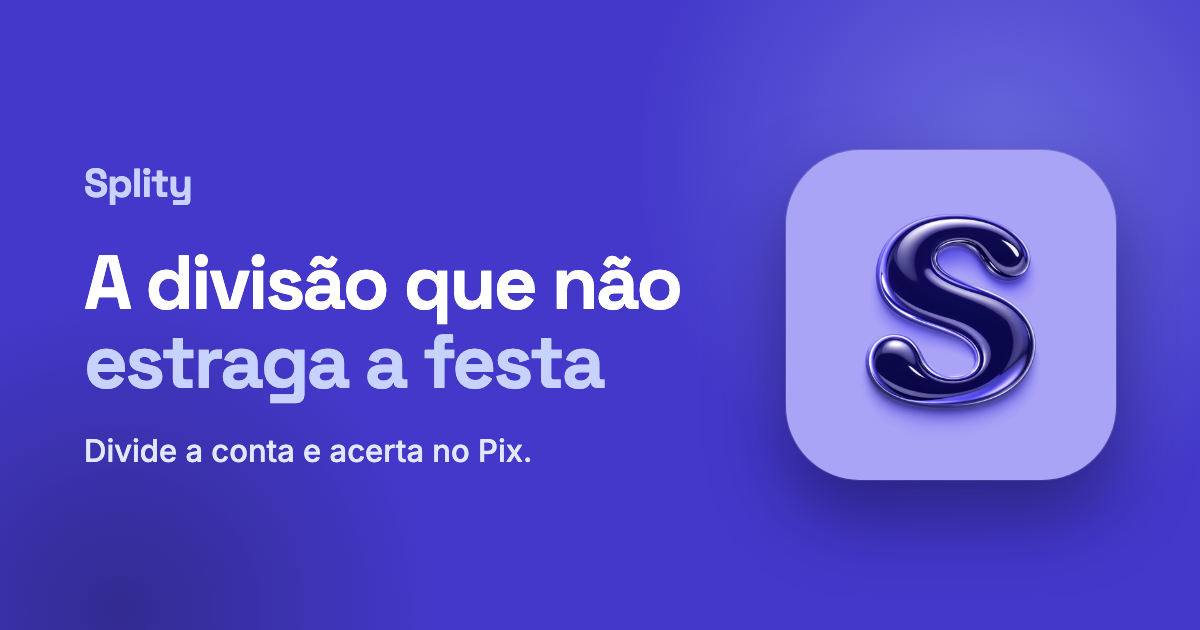
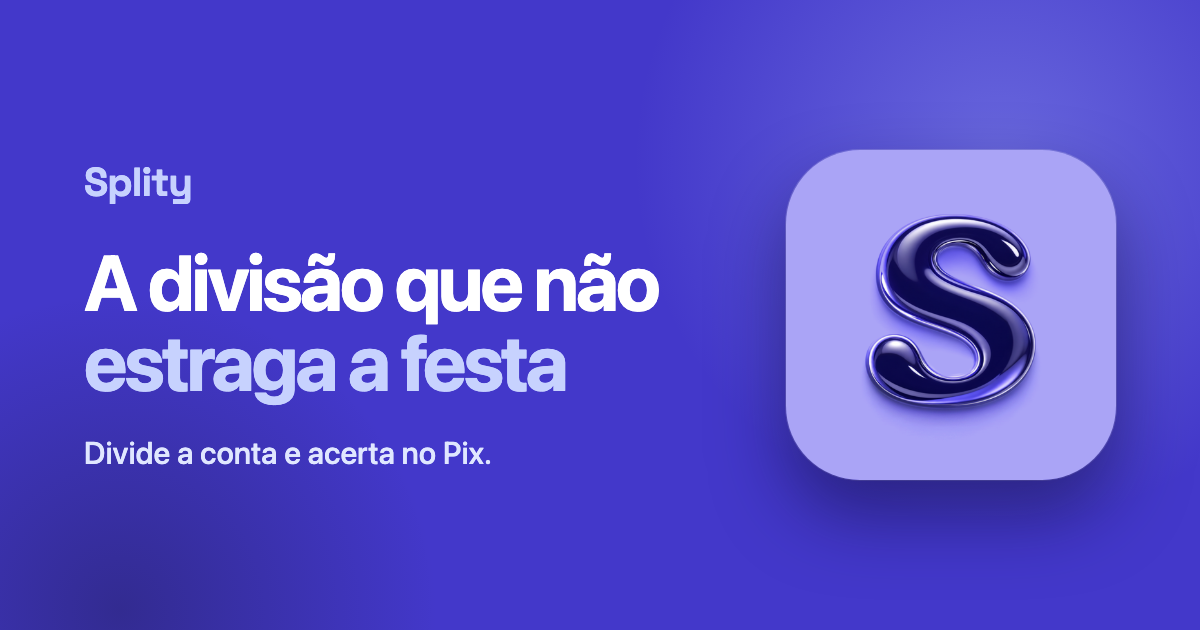
design: tipografia da landing no estilo Apple (Space Grotesk só no nome)
- Nome "Splity" (topo e rodapé) e as telas do celular seguem em Space Grotesk
- Resto do site passa pra fonte do sistema da Apple (SF Pro no iPhone/Mac;
  onde não existe, Inter) com algarismos tabulares nos valores em reais
- Escala maior e apertada nos títulos (topo até 80px, seções até 68px,
  tracking -0,035em) e mais espaço entre seções
- Imagem de pré-visualização regenerada com a mesma regra de fontes
- R$ e valor nunca quebram em linhas separadas nos cartões

Changed region(s): [[0.0617, 0.3921, 0.5858, 0.6635], [0.0617, 0.6937, 0.4317, 0.754], [0.0617, 0.2714, 0.1542, 0.3317]]

diff --git a/index.html b/index.html
@@ -41,11 +41,16 @@
       --bg-gray: #f8fafc;
       --border: #e2e8f0;
       --radius-lg: 20px;
+      /* Space Grotesk só no nome "Splity"; o resto do site usa a fonte do sistema da
+         Apple (SF Pro no iPhone/Mac) e, onde ela não existe, a Inter (parecida). */
+      --font-brand: 'Space Grotesk', sans-serif;
+      --font-ui: -apple-system, BlinkMacSystemFont, 'SF Pro Display', 'SF Pro Text', 'Inter', 'Helvetica Neue', Arial, sans-serif;
     }
 
     html { scroll-behavior: smooth; }
+    .sit-row b, .sit-sum b, .dm-transfer b, .dm-bal b, .dm-money input, .plan-price .amount { font-variant-numeric: tabular-nums; }
     body {
-      font-family: 'Inter', sans-serif;
+      font-family: var(--font-ui);
       color: var(--text);
       background: var(--bg);
       -webkit-font-smoothing: antialiased;
@@ -84,7 +89,7 @@
       border-bottom: 1px solid #e2e8f0;
     }
     .nav-inner { max-width: 1120px; margin: 0 auto; padding: 14px 24px; display: flex; align-items: center; justify-content: space-between; }
-    .nav-logo { font-family: 'Space Grotesk', sans-serif; font-size: 30px; font-weight: 700; color: var(--brand); text-decoration: none; letter-spacing: -0.4px; }
+    .nav-logo { font-family: var(--font-brand); font-size: 30px; font-weight: 700; color: var(--brand); text-decoration: none; letter-spacing: -0.4px; }
     .nav-links { display: flex; align-items: center; gap: 22px; }
     .nav-links a { text-decoration: none; transition: all 0.15s cubic-bezier(0.4,0,0.2,1); }
     .nav-enter { font-size: 14px; font-weight: 600; color: var(--text); }
@@ -101,10 +106,10 @@
       overflow: hidden;
     }
     .hero-inner { max-width: 1120px; margin: 0 auto; display: flex; align-items: center; gap: 32px; flex-wrap: wrap; }
-    .hero-text { flex: 1 1 50%; max-width: 460px; min-width: 260px; }
-    .hero-text h1 { font-family: 'Space Grotesk', sans-serif; font-size: clamp(38px,5vw,58px); font-weight: 700; line-height: 1.08; letter-spacing: -1px; margin-bottom: 22px; }
+    .hero-text { flex: 1 1 56%; max-width: 620px; min-width: 260px; }
+    .hero-text h1 { font-family: var(--font-ui); font-size: clamp(42px,6.2vw,80px); font-weight: 700; line-height: 1.03; letter-spacing: -0.035em; margin-bottom: 26px; }
     .hero-text h1 em { color: var(--brand); font-style: normal; }
-    .hero-text p { font-size: clamp(16px,1.6vw,19px); color: var(--text-muted); max-width: 480px; margin-bottom: 30px; }
+    .hero-text p { font-size: clamp(17px,1.7vw,21px); line-height: 1.45; letter-spacing: -0.011em; color: var(--text-muted); max-width: 520px; margin-bottom: 34px; }
     .hero-cta {
       display: inline-flex; align-items: center; gap: 10px;
       background: var(--brand); color: #fff; font-size: 16px; font-weight: 600;
@@ -117,7 +122,7 @@
     .hero-app { display: inline-block; margin-top: 14px; font-size: 14px; font-weight: 600; color: var(--brand); text-decoration: none; border-bottom: 1.5px solid rgba(67,56,202,0.3); padding-bottom: 1px; }
     .hero-app:hover { border-bottom-color: var(--brand); }
 
-    .hero-mockup-col { flex: 1 1 50%; min-width: 280px; display: flex; justify-content: flex-end; padding-right: 64px; box-sizing: border-box; }
+    .hero-mockup-col { flex: 1 1 36%; min-width: 280px; display: flex; justify-content: flex-end; padding-right: 64px; box-sizing: border-box; }
     .phone-outer { width: 289px; height: 629px; flex: none; }
     .phone-scale { width: 402px; height: 874px; transform: scale(0.7188); transform-origin: top left; filter: drop-shadow(0 30px 60px rgba(15,23,42,0.25)); }
     .ios-device { width: 402px; height: 874px; border-radius: 48px; background: #000; padding: 12px; box-sizing: border-box; position: relative; }
@@ -165,8 +170,8 @@
     .mock-back { width: 38px; height: 38px; border-radius: 50%; background: #fff; box-shadow: 0 1px 3px rgba(20,18,50,0.08); display: flex; align-items: center; justify-content: center; flex-shrink: 0; }
 
     .mock-greet-name { font-size: 14px; color: #7a7894; }
-    .mock-greet-user { font-family: 'Space Grotesk', sans-serif; font-size: 26px; font-weight: 700; line-height: 1.1; }
-    .mock-avatar { width: 44px; height: 44px; border-radius: 50%; background: var(--brand); color: #fff; display: flex; align-items: center; justify-content: center; font-family: 'Space Grotesk', sans-serif; font-weight: 700; font-size: 17px; box-shadow: 0 4px 12px rgba(67,56,202,0.25); }
+    .mock-greet-user { font-family: var(--font-brand); font-size: 26px; font-weight: 700; line-height: 1.1; }
+    .mock-avatar { width: 44px; height: 44px; border-radius: 50%; background: var(--brand); color: #fff; display: flex; align-items: center; justify-content: center; font-family: var(--font-brand); font-weight: 700; font-size: 17px; box-shadow: 0 4px 12px rgba(67,56,202,0.25); }
     .mock-card { background: #fff; border-radius: 20px; padding: 14px 16px; display: flex; align-items: center; gap: 14px; box-shadow: 0 1px 3px rgba(20,18,50,0.05); transition: outline 0.3s ease; }
     .mock-tile { background: #eef2ff; width: 48px; height: 48px; border-radius: 16px; display: flex; align-items: center; justify-content: center; font-size: 23px; flex-shrink: 0; }
     .mock-card-name { font-size: 15px; font-weight: 600; }
@@ -174,7 +179,7 @@
     .mock-fab { display: inline-flex; align-items: center; gap: 6px; border-radius: 999px; padding: 8px 14px; font-size: 13px; font-weight: 700; transition: all 0.25s cubic-bezier(0.4,0,0.2,1); background: var(--brand-light); color: var(--brand); }
     .mock-fab.active { background: var(--brand); color: #fff; transform: scale(1.08); box-shadow: 0 6px 16px rgba(67,56,202,0.35); }
     .mock-friend { background: #fff; border-radius: 18px; padding: 14px 16px; display: flex; align-items: center; gap: 13px; box-shadow: 0 1px 3px rgba(20,18,50,0.05); }
-    .mock-friend-avatar { width: 42px; height: 42px; border-radius: 50%; display: flex; align-items: center; justify-content: center; font-family: 'Space Grotesk', sans-serif; font-weight: 700; font-size: 15px; flex-shrink: 0; }
+    .mock-friend-avatar { width: 42px; height: 42px; border-radius: 50%; display: flex; align-items: center; justify-content: center; font-family: var(--font-brand); font-weight: 700; font-size: 15px; flex-shrink: 0; }
     .mock-check { width: 26px; height: 26px; border-radius: 50%; border: 2px solid #cbd5e1; background: transparent; display: flex; align-items: center; justify-content: center; transition: all 0.2s ease; margin-left: auto; }
     .mock-check svg { opacity: 0; transition: opacity 0.15s ease; }
     .mock-check.checked svg { opacity: 1; }
@@ -185,7 +190,7 @@
     .mock-hero-top { display: flex; align-items: center; gap: 8px; margin-bottom: 6px; }
     .mock-hero-label { font-size: 12px; color: rgba(255,255,255,0.7); font-weight: 500; }
     .mock-currency-pill { display: inline-flex; align-items: center; gap: 4px; background: rgba(255,255,255,0.18); border-radius: 999px; padding: 3px 9px 3px 10px; font-size: 10.5px; font-weight: 600; }
-    .mock-hero-total { font-family: 'Space Grotesk', sans-serif; font-size: 27px; font-weight: 800; letter-spacing: -0.5px; }
+    .mock-hero-total { font-family: var(--font-brand); font-size: 27px; font-weight: 800; letter-spacing: -0.5px; }
     .mock-hero-subs { display: flex; gap: 8px; margin-top: 14px; }
     .mock-hero-sub { flex: 1; background: rgba(255,255,255,0.14); border-radius: 12px; padding: 8px 10px; }
     .mock-hero-sub-label { font-size: 10px; color: rgba(255,255,255,0.75); margin-bottom: 2px; }
@@ -198,16 +203,16 @@
     .mock-bell-dot { position: absolute; top: 7px; right: 8px; width: 7px; height: 7px; border-radius: 50%; background: #ef4444; border: 1.5px solid #fff; }
 
     /* ── SECTIONS ── */
-    section { padding: 90px 24px; }
+    section { padding: 110px 24px; }
     .container { max-width: 1120px; margin: 0 auto; }
-    h2 { font-family: 'Space Grotesk', sans-serif; font-size: clamp(28px,3.4vw,40px); font-weight: 700; letter-spacing: -0.6px; text-align: center; margin-bottom: 56px; }
+    h2 { font-family: var(--font-ui); font-size: clamp(32px,4.8vw,56px); font-weight: 700; line-height: 1.06; letter-spacing: -0.03em; text-align: center; margin-bottom: 64px; }
 
     /* ── HOW IT WORKS ── */
     #how { background: var(--bg-gray); }
     .steps { display: grid; grid-template-columns: repeat(auto-fit,minmax(260px,1fr)); gap: 36px; }
     .step { text-align: center; padding: 0 12px; }
-    .step-num { width: 52px; height: 52px; border-radius: 50%; background: var(--brand); color: #fff; display: inline-flex; align-items: center; justify-content: center; font-family: 'Space Grotesk', sans-serif; font-size: 20px; font-weight: 700; margin-bottom: 18px; }
-    .step h3 { font-family: 'Space Grotesk', sans-serif; font-size: 19px; font-weight: 700; margin-bottom: 8px; }
+    .step-num { width: 52px; height: 52px; border-radius: 50%; background: var(--brand); color: #fff; display: inline-flex; align-items: center; justify-content: center; font-family: var(--font-ui); font-size: 20px; font-weight: 700; margin-bottom: 18px; }
+    .step h3 { font-family: var(--font-ui); font-size: 21px; font-weight: 700; letter-spacing: -0.02em; margin-bottom: 8px; }
     .step p { font-size: 14.5px; color: var(--text-muted); }
 
     /* ── FEATURES ── */
@@ -216,14 +221,14 @@
     .feature-card:hover { transform: translateY(-2px); box-shadow: 0 12px 28px rgba(15,23,42,0.08); }
     .feature-icon { width: 44px; height: 44px; border-radius: 13px; background: var(--brand-light); display: flex; align-items: center; justify-content: center; margin-bottom: 16px; }
     .feature-icon svg, .trust-item svg { width: 22px; height: 22px; fill: none; stroke: var(--brand); stroke-width: 2; stroke-linecap: round; stroke-linejoin: round; }
-    .feature-card h3 { font-family: 'Space Grotesk', sans-serif; font-size: 18px; font-weight: 700; margin-bottom: 6px; }
+    .feature-card h3 { font-family: var(--font-ui); font-size: 18px; font-weight: 700; margin-bottom: 6px; }
     .feature-card p { font-size: 14px; color: var(--text-muted); }
     .feature-badge { position: absolute; top: 20px; right: 20px; background: var(--brand); color: #fff; font-size: 10.5px; font-weight: 700; letter-spacing: 0.05em; text-transform: uppercase; border-radius: 99px; padding: 4px 10px; }
 
     /* ── ORIGIN ── */
     #origin { background: var(--brand); padding: 100px 24px; }
     .origin-inner { max-width: 820px; margin: 0 auto; text-align: center; color: #fff; }
-    .origin-quote { font-family: 'Space Grotesk', sans-serif; font-size: clamp(22px,3vw,32px); font-weight: 600; line-height: 1.35; letter-spacing: -0.4px; }
+    .origin-quote { font-family: var(--font-ui); font-size: clamp(22px,3vw,32px); font-weight: 600; line-height: 1.35; letter-spacing: -0.02em; }
     .origin-name { margin-top: 28px; font-size: 15px; font-weight: 600; }
     .origin-role { font-size: 13px; opacity: 0.75; }
 
@@ -231,10 +236,10 @@
     .origin-tag { display: inline-block; font-size: 12px; font-weight: 700; letter-spacing: 0.08em; text-transform: uppercase; padding: 6px 14px; border-radius: 99px; background: rgba(255,255,255,0.16); margin-bottom: 26px; }
     .origin-stats { display: flex; justify-content: center; flex-wrap: wrap; gap: 14px; margin: 0 0 34px; }
     .origin-stat { background: rgba(255,255,255,0.12); border-radius: 18px; padding: 14px 22px; min-width: 150px; }
-    .origin-stat b { display: block; font-family: 'Space Grotesk', sans-serif; font-size: 28px; font-weight: 800; letter-spacing: -0.6px; }
+    .origin-stat b { display: block; font-family: var(--font-ui); font-size: 28px; font-weight: 800; letter-spacing: -0.6px; }
     .origin-stat span { font-size: 13px; opacity: 0.75; }
     .origin-person { display: flex; align-items: center; justify-content: center; gap: 12px; margin-top: 30px; text-align: left; }
-    .origin-avatar { width: 46px; height: 46px; border-radius: 50%; background: #fff; color: var(--brand); display: flex; align-items: center; justify-content: center; font-family: 'Space Grotesk', sans-serif; font-weight: 800; font-size: 19px; }
+    .origin-avatar { width: 46px; height: 46px; border-radius: 50%; background: #fff; color: var(--brand); display: flex; align-items: center; justify-content: center; font-family: var(--font-ui); font-weight: 800; font-size: 19px; }
     .origin-person .origin-name { margin-top: 0; }
 
     /* ── PLANS ── */
@@ -255,10 +260,10 @@
     .plan-card.featured { border: 2px solid var(--brand); background: linear-gradient(160deg, #fff 0%, var(--brand-light) 100%); position: relative; }
     .plan-card.featured:hover { box-shadow: 0 16px 34px rgba(67,56,202,0.18); }
     .plan-popular { position: absolute; top: -13px; left: 50%; transform: translateX(-50%); background: var(--brand); color: #fff; font-size: 11px; font-weight: 700; letter-spacing: 0.05em; text-transform: uppercase; border-radius: 99px; padding: 5px 14px; white-space: nowrap; }
-    .plan-name { font-family: 'Space Grotesk', sans-serif; font-size: 19px; font-weight: 700; }
+    .plan-name { font-family: var(--font-ui); font-size: 19px; font-weight: 700; }
     .plan-card.featured .plan-name { color: var(--brand); }
     .plan-price { margin: 10px 0 22px; }
-    .plan-price .amount { font-family: 'Space Grotesk', sans-serif; font-size: 38px; font-weight: 700; }
+    .plan-price .amount { font-family: var(--font-ui); font-size: 38px; font-weight: 700; }
     .plan-price .period { font-size: 14px; color: var(--text-muted); }
     .plan-features { display: flex; flex-direction: column; gap: 11px; font-size: 14.5px; flex: 1; }
     .plan-features div { display: flex; gap: 10px; }
@@ -275,13 +280,13 @@
     #situations { padding: 90px 0 0; }
     #situations > .container { padding: 0 24px; }
     #situations h2 { margin-bottom: 14px; }
-    .sit-lead { text-align: center; color: var(--text-muted); font-size: 17px; max-width: 560px; margin: 0 auto 56px; }
+    .sit-lead { text-align: center; color: var(--text-muted); font-size: 19px; letter-spacing: -0.011em; max-width: 580px; margin: 0 auto 64px; }
     .sit { padding: 84px 24px; }
     .sit-inner { max-width: 1120px; margin: 0 auto; display: grid; grid-template-columns: 1fr 1fr; gap: 64px; align-items: center; }
     .sit.flip .sit-copy { order: 2; }
     .sit-tag { display: inline-block; font-size: 12px; font-weight: 700; letter-spacing: 0.08em; text-transform: uppercase; padding: 6px 12px; border-radius: 99px; margin-bottom: 18px; background: rgba(30,27,75,0.10); }
-    .sit h3 { font-family: 'Space Grotesk', sans-serif; font-size: clamp(32px,4.4vw,54px); font-weight: 700; line-height: 1.05; letter-spacing: -1.2px; margin-bottom: 18px; }
-    .sit p { font-size: 17px; line-height: 1.55; max-width: 440px; opacity: 0.82; }
+    .sit h3 { font-family: var(--font-ui); font-size: clamp(34px,5.4vw,68px); font-weight: 700; line-height: 1.03; letter-spacing: -0.035em; margin-bottom: 20px; }
+    .sit p { font-size: 19px; line-height: 1.5; letter-spacing: -0.011em; max-width: 460px; opacity: 0.82; }
     .sit-viagem { background: var(--brand); color: #fff; }
     .sit-viagem .sit-tag { background: rgba(255,255,255,0.16); }
     /* Seções por situação: só índigo e os tons dele (marca → lilás → azul-marinho → lilás forte) */
@@ -294,9 +299,9 @@
     .sit-card-head { display: flex; align-items: center; gap: 14px; padding-bottom: 16px; border-bottom: 1px solid #eef0f6; margin-bottom: 8px; }
     .sit-row { display: flex; justify-content: space-between; gap: 12px; padding: 11px 0; font-size: 14.5px; border-bottom: 1px solid #f3f4f8; }
     .sit-row small { display: block; color: #8a88a3; font-size: 12px; margin-top: 1px; }
-    .sit-row b { font-family: 'Space Grotesk', sans-serif; font-weight: 700; white-space: nowrap; }
+    .sit-row b { font-family: var(--font-ui); font-weight: 700; white-space: nowrap; }
     .sit-sum { display: flex; justify-content: space-between; align-items: baseline; padding: 16px 0 6px; font-size: 14px; color: #6b6a85; }
-    .sit-sum b { font-family: 'Space Grotesk', sans-serif; font-size: 22px; color: var(--text); letter-spacing: -0.4px; }
+    .sit-sum b { font-family: var(--font-ui); font-size: 22px; color: var(--text); letter-spacing: -0.4px; }
     .sit-pay { margin-top: 12px; display: flex; align-items: center; justify-content: space-between; gap: 10px; background: var(--brand-light); border-radius: 16px; padding: 12px 14px; font-size: 13.5px; font-weight: 600; color: var(--brand-dark); }
     .sit-pay span { background: var(--brand); color: #fff; border-radius: 99px; padding: 6px 12px; font-size: 12px; font-weight: 700; white-space: nowrap; }
 
@@ -314,7 +319,7 @@
     .faq-list { max-width: 760px; margin: 0 auto; display: flex; flex-direction: column; gap: 12px; }
     .faq-item { border: 1px solid var(--border); border-radius: 16px; background: #fff; transition: border-color 0.15s, box-shadow 0.15s; }
     .faq-item[open] { border-color: var(--brand); box-shadow: 0 8px 22px rgba(67,56,202,0.08); }
-    .faq-item summary { list-style: none; cursor: pointer; padding: 18px 22px; font-family: 'Space Grotesk', sans-serif; font-size: 17px; font-weight: 700; display: flex; align-items: center; justify-content: space-between; gap: 16px; }
+    .faq-item summary { list-style: none; cursor: pointer; padding: 18px 22px; font-family: var(--font-ui); font-size: 17px; font-weight: 700; display: flex; align-items: center; justify-content: space-between; gap: 16px; }
     .faq-item summary::-webkit-details-marker { display: none; }
     .faq-item summary::after { content: '+'; font-size: 24px; font-weight: 500; color: var(--brand); line-height: 1; transition: transform 0.2s; flex-shrink: 0; }
     .faq-item[open] summary::after { transform: rotate(45deg); }
@@ -324,38 +329,38 @@
 
     /* ── DEMONSTRAÇÃO: QUEM PAGA QUEM ── */
     #demo { background: #fff; }
-    .dm-lead { text-align: center; color: var(--text-muted); font-size: 17px; max-width: 560px; margin: -36px auto 44px; }
+    .dm-lead { text-align: center; color: var(--text-muted); font-size: 19px; letter-spacing: -0.011em; max-width: 580px; margin: -40px auto 48px; }
     .dm-grid { display: grid; grid-template-columns: minmax(0,1.15fr) minmax(0,1fr); gap: 28px; align-items: start; max-width: 1040px; margin: 0 auto; }
     .dm-list { display: flex; flex-direction: column; gap: 14px; }
     .dm-exp { border: 1px solid var(--border); border-radius: 20px; padding: 18px 20px; background: #fff; }
     .dm-exp-top { display: flex; align-items: center; justify-content: space-between; gap: 12px; flex-wrap: wrap; }
-    .dm-exp-name { font-family: 'Space Grotesk', sans-serif; font-size: 18px; font-weight: 700; }
+    .dm-exp-name { font-family: var(--font-ui); font-size: 18px; font-weight: 700; }
     .dm-money { display: flex; align-items: center; gap: 6px; background: var(--bg-gray); border: 1.5px solid var(--border); border-radius: 12px; padding: 0 12px; height: 42px; transition: border-color 0.15s, box-shadow 0.15s; }
     .dm-money:focus-within { border-color: var(--brand); box-shadow: 0 0 0 4px rgba(67,56,202,0.12); }
     .dm-money span { font-weight: 700; color: var(--text-muted); font-size: 14px; }
-    .dm-money input { border: 0; outline: 0; background: transparent; width: 92px; font-family: 'Space Grotesk', sans-serif; font-size: 18px; font-weight: 700; color: var(--text); }
+    .dm-money input { border: 0; outline: 0; background: transparent; width: 92px; font-family: var(--font-ui); font-size: 18px; font-weight: 700; color: var(--text); }
     .dm-row { display: flex; align-items: center; gap: 10px; margin-top: 14px; flex-wrap: wrap; }
     .dm-label { font-size: 12.5px; font-weight: 600; color: var(--text-muted); min-width: 78px; }
-    .dm-select { height: 36px; border-radius: 10px; border: 1.5px solid var(--border); background: #fff; padding: 0 30px 0 12px; font: 600 14px 'Inter', sans-serif; color: var(--text); cursor: pointer; }
+    .dm-select { height: 36px; border-radius: 10px; border: 1.5px solid var(--border); background: #fff; padding: 0 30px 0 12px; font: 600 14px var(--font-ui); color: var(--text); cursor: pointer; }
     .dm-select:focus-visible, .dm-chip:focus-visible, .dm-reset:focus-visible { outline: 3px solid rgba(67,56,202,0.4); outline-offset: 2px; }
     .dm-chips { display: flex; flex-wrap: wrap; gap: 8px; }
-    .dm-chip { border: 1.5px solid var(--border); background: var(--brand-light); color: var(--text-muted); border-radius: 999px; padding: 7px 14px; font: 600 13.5px 'Inter', sans-serif; cursor: pointer; transition: background 0.15s, color 0.15s, border-color 0.15s, transform 0.12s; }
+    .dm-chip { border: 1.5px solid var(--border); background: var(--brand-light); color: var(--text-muted); border-radius: 999px; padding: 7px 14px; font: 600 13.5px var(--font-ui); cursor: pointer; transition: background 0.15s, color 0.15s, border-color 0.15s, transform 0.12s; }
     .dm-chip:active { transform: scale(0.96); }
     .dm-chip[aria-pressed="true"] { background: var(--brand); border-color: var(--brand); color: #fff; }
     .dm-hint { font-size: 12.5px; color: var(--text-muted); margin-top: 10px; min-height: 18px; }
     .dm-result { background: #1e1b4b; color: #fff; border-radius: 24px; padding: 26px 24px; position: sticky; top: 92px; }
-    .dm-result h3 { font-family: 'Space Grotesk', sans-serif; font-size: 13px; font-weight: 700; letter-spacing: 0.08em; text-transform: uppercase; color: #a5b4fc; margin-bottom: 12px; }
+    .dm-result h3 { font-family: var(--font-ui); font-size: 13px; font-weight: 700; letter-spacing: 0.08em; text-transform: uppercase; color: #a5b4fc; margin-bottom: 12px; }
     .dm-transfer { display: flex; align-items: center; justify-content: space-between; gap: 10px; background: rgba(255,255,255,0.08); border-radius: 14px; padding: 12px 14px; margin-bottom: 8px; font-size: 15px; font-weight: 600; }
-    .dm-transfer b { font-family: 'Space Grotesk', sans-serif; font-size: 17px; white-space: nowrap; }
+    .dm-transfer b { font-family: var(--font-ui); font-size: 17px; white-space: nowrap; }
     .dm-arrow { color: #a5b4fc; margin: 0 4px; }
     .dm-balances { margin-top: 22px; padding-top: 18px; border-top: 1px solid rgba(255,255,255,0.14); }
     .dm-bal { display: flex; justify-content: space-between; padding: 6px 0; font-size: 14.5px; }
-    .dm-bal b { font-family: 'Space Grotesk', sans-serif; }
+    .dm-bal b { font-family: var(--font-ui); }
     .dm-bal .pos { color: #c7d2fe; }
     .dm-bal .neg { color: #fca5a5; }
     .dm-empty { color: #c7d2fe; font-size: 15px; padding: 6px 0; }
     .dm-foot { margin-top: 18px; font-size: 12.5px; color: #a5b4fc; line-height: 1.5; }
-    .dm-reset { margin-top: 14px; background: none; border: 0; color: var(--brand); font: 600 14px 'Inter', sans-serif; cursor: pointer; text-decoration: underline; text-underline-offset: 3px; }
+    .dm-reset { margin-top: 14px; background: none; border: 0; color: var(--brand); font: 600 14px var(--font-ui); cursor: pointer; text-decoration: underline; text-underline-offset: 3px; }
     @media (max-width: 860px) {
       .dm-grid { grid-template-columns: 1fr; }
       .dm-result { position: static; }
@@ -374,7 +379,7 @@
     /* ── FOOTER ── */
     footer { background: #0f172a; color: #94a3b8; padding: 36px 24px; }
     .footer-inner { max-width: 1120px; margin: 0 auto; display: flex; align-items: center; justify-content: space-between; gap: 16px; flex-wrap: wrap; }
-    .footer-logo { font-family: 'Space Grotesk', sans-serif; font-size: 18px; font-weight: 700; color: #fff; }
+    .footer-logo { font-family: var(--font-brand); font-size: 18px; font-weight: 700; color: #fff; }
     .footer-links { display: flex; gap: 24px; font-size: 13px; }
     .footer-links a { color: #94a3b8; text-decoration: none; transition: color 0.15s; }
     .footer-links a:hover { color: #fff; }
@@ -409,7 +414,7 @@
       <div class="hero-text fade up" data-fade>
         <h1>A divisão que não <em>estraga a festa</em></h1>
         <p>Viagem, apê, churrasco: registre cada gasto em segundos e o Splity calcula quem paga quem. Sem planilha, sem climão, sem "depois a gente vê".</p>
-        <a href="#plans" class="hero-cta">Experimentar grátis <span style="font-family:'Space Grotesk',sans-serif;">→</span></a>
+        <a href="#plans" class="hero-cta">Experimentar grátis <span style="font-family:var(--font-ui);">→</span></a>
         <p class="hero-note">7 dias Premium grátis · Cancele antes e não paga nada</p>
         <a class="hero-app" href="https://testflight.apple.com/join/ZAApR7mg" target="_blank" rel="noopener">Baixar o app para iPhone (beta) →</a>
       </div>
@@ -576,9 +581,9 @@
       </div>
       <div class="sit-card fade up" data-fade>
           <div class="sit-card-head"><div class="mock-tile">✈</div><div><div class="mock-card-name">Viagem Orlando</div><div class="mock-card-sub">7 membros</div></div></div>
-          <div class="sit-row"><div>Mercado<small>pago por Arthur</small></div><b>R$ 420,00</b></div><div class="sit-row"><div>Gasolina<small>pago por Alexandre</small></div><b>R$ 210,00</b></div><div class="sit-row"><div>Pedágio<small>pago por Isis</small></div><b>R$ 70,00</b></div>
-          <div class="sit-sum"><span>Cada um fica com</span><b>R$ 100,00</b></div>
-          <div class="sit-pay">Pedro → Arthur · R$ 100,00<span>Copiar Pix</span></div>
+          <div class="sit-row"><div>Mercado<small>pago por Arthur</small></div><b>R$&nbsp;420,00</b></div><div class="sit-row"><div>Gasolina<small>pago por Alexandre</small></div><b>R$&nbsp;210,00</b></div><div class="sit-row"><div>Pedágio<small>pago por Isis</small></div><b>R$&nbsp;70,00</b></div>
+          <div class="sit-sum"><span>Cada um fica com</span><b>R$&nbsp;100,00</b></div>
+          <div class="sit-pay">Pedro → Arthur · R$&nbsp;100,00<span>Copiar Pix</span></div>
         </div>
     </div>
   </div>
@@ -591,9 +596,9 @@
       </div>
       <div class="sit-card fade up" data-fade>
           <div class="sit-card-head"><div class="mock-tile">🏠</div><div><div class="mock-card-name">Apê 302</div><div class="mock-card-sub">3 membros</div></div></div>
-          <div class="sit-row"><div>Aluguel<small>pago por Pedro · todo mês</small></div><b>R$ 1.800,00</b></div><div class="sit-row"><div>Luz<small>pago por Pedro · todo mês</small></div><b>R$ 180,00</b></div><div class="sit-row"><div>Internet<small>pago por Pedro · todo mês</small></div><b>R$ 120,00</b></div>
-          <div class="sit-sum"><span>Cada um fica com</span><b>R$ 700,00</b></div>
-          <div class="sit-pay">Fabi → Pedro · R$ 700,00<span>Copiar Pix</span></div>
+          <div class="sit-row"><div>Aluguel<small>pago por Pedro · todo mês</small></div><b>R$&nbsp;1.800,00</b></div><div class="sit-row"><div>Luz<small>pago por Pedro · todo mês</small></div><b>R$&nbsp;180,00</b></div><div class="sit-row"><div>Internet<small>pago por Pedro · todo mês</small></div><b>R$&nbsp;120,00</b></div>
+          <div class="sit-sum"><span>Cada um fica com</span><b>R$&nbsp;700,00</b></div>
+          <div class="sit-pay">Fabi → Pedro · R$&nbsp;700,00<span>Copiar Pix</span></div>
         </div>
     </div>
   </div>
@@ -606,9 +611,9 @@
       </div>
       <div class="sit-card fade up" data-fade>
           <div class="sit-card-head"><div class="mock-tile">🍖</div><div><div class="mock-card-name">Churrasco do Alexandre</div><div class="mock-card-sub">5 membros</div></div></div>
-          <div class="sit-row"><div>Carne e carvão<small>dividido igual · 5 pessoas</small></div><b>R$ 310,00</b></div><div class="sit-row"><div>Cerveja<small>só quem bebeu · 3 pessoas</small></div><b>R$ 90,00</b></div><div class="sit-row"><div>Por pessoa<small>sem álcool · com cerveja</small></div><b>R$ 62 · R$ 92</b></div>
-          <div class="sit-sum"><span>Total do churrasco</span><b>R$ 400,00</b></div>
-          <div class="sit-pay">Fabi → Alexandre · R$ 62,00<span>Copiar Pix</span></div>
+          <div class="sit-row"><div>Carne e carvão<small>dividido igual · 5 pessoas</small></div><b>R$&nbsp;310,00</b></div><div class="sit-row"><div>Cerveja<small>só quem bebeu · 3 pessoas</small></div><b>R$&nbsp;90,00</b></div><div class="sit-row"><div>Por pessoa<small>sem álcool · com cerveja</small></div><b>R$&nbsp;62 · R$&nbsp;92</b></div>
+          <div class="sit-sum"><span>Total do churrasco</span><b>R$&nbsp;400,00</b></div>
+          <div class="sit-pay">Fabi → Alexandre · R$&nbsp;62,00<span>Copiar Pix</span></div>
         </div>
     </div>
   </div>
@@ -621,9 +626,9 @@
       </div>
       <div class="sit-card fade up" data-fade>
           <div class="sit-card-head"><div class="mock-tile">💞</div><div><div class="mock-card-name">Casa e mercado</div><div class="mock-card-sub">2 membros</div></div></div>
-          <div class="sit-row"><div>Mercado<small>pago por Isis · 40%</small></div><b>R$ 380,00</b></div><div class="sit-row"><div>Jantar<small>pago por Pedro · 60%</small></div><b>R$ 220,00</b></div><div class="sit-row"><div>Total do mês<small>Pedro 60% · Isis 40%</small></div><b>R$ 600,00</b></div>
-          <div class="sit-sum"><span>Pedro deve a Isis</span><b>R$ 140,00</b></div>
-          <div class="sit-pay">Pedro → Isis · R$ 140,00<span>Copiar Pix</span></div>
+          <div class="sit-row"><div>Mercado<small>pago por Isis · 40%</small></div><b>R$&nbsp;380,00</b></div><div class="sit-row"><div>Jantar<small>pago por Pedro · 60%</small></div><b>R$&nbsp;220,00</b></div><div class="sit-row"><div>Total do mês<small>Pedro 60% · Isis 40%</small></div><b>R$&nbsp;600,00</b></div>
+          <div class="sit-sum"><span>Pedro deve a Isis</span><b>R$&nbsp;140,00</b></div>
+          <div class="sit-pay">Pedro → Isis · R$&nbsp;140,00<span>Copiar Pix</span></div>
         </div>
     </div>
   </div>
